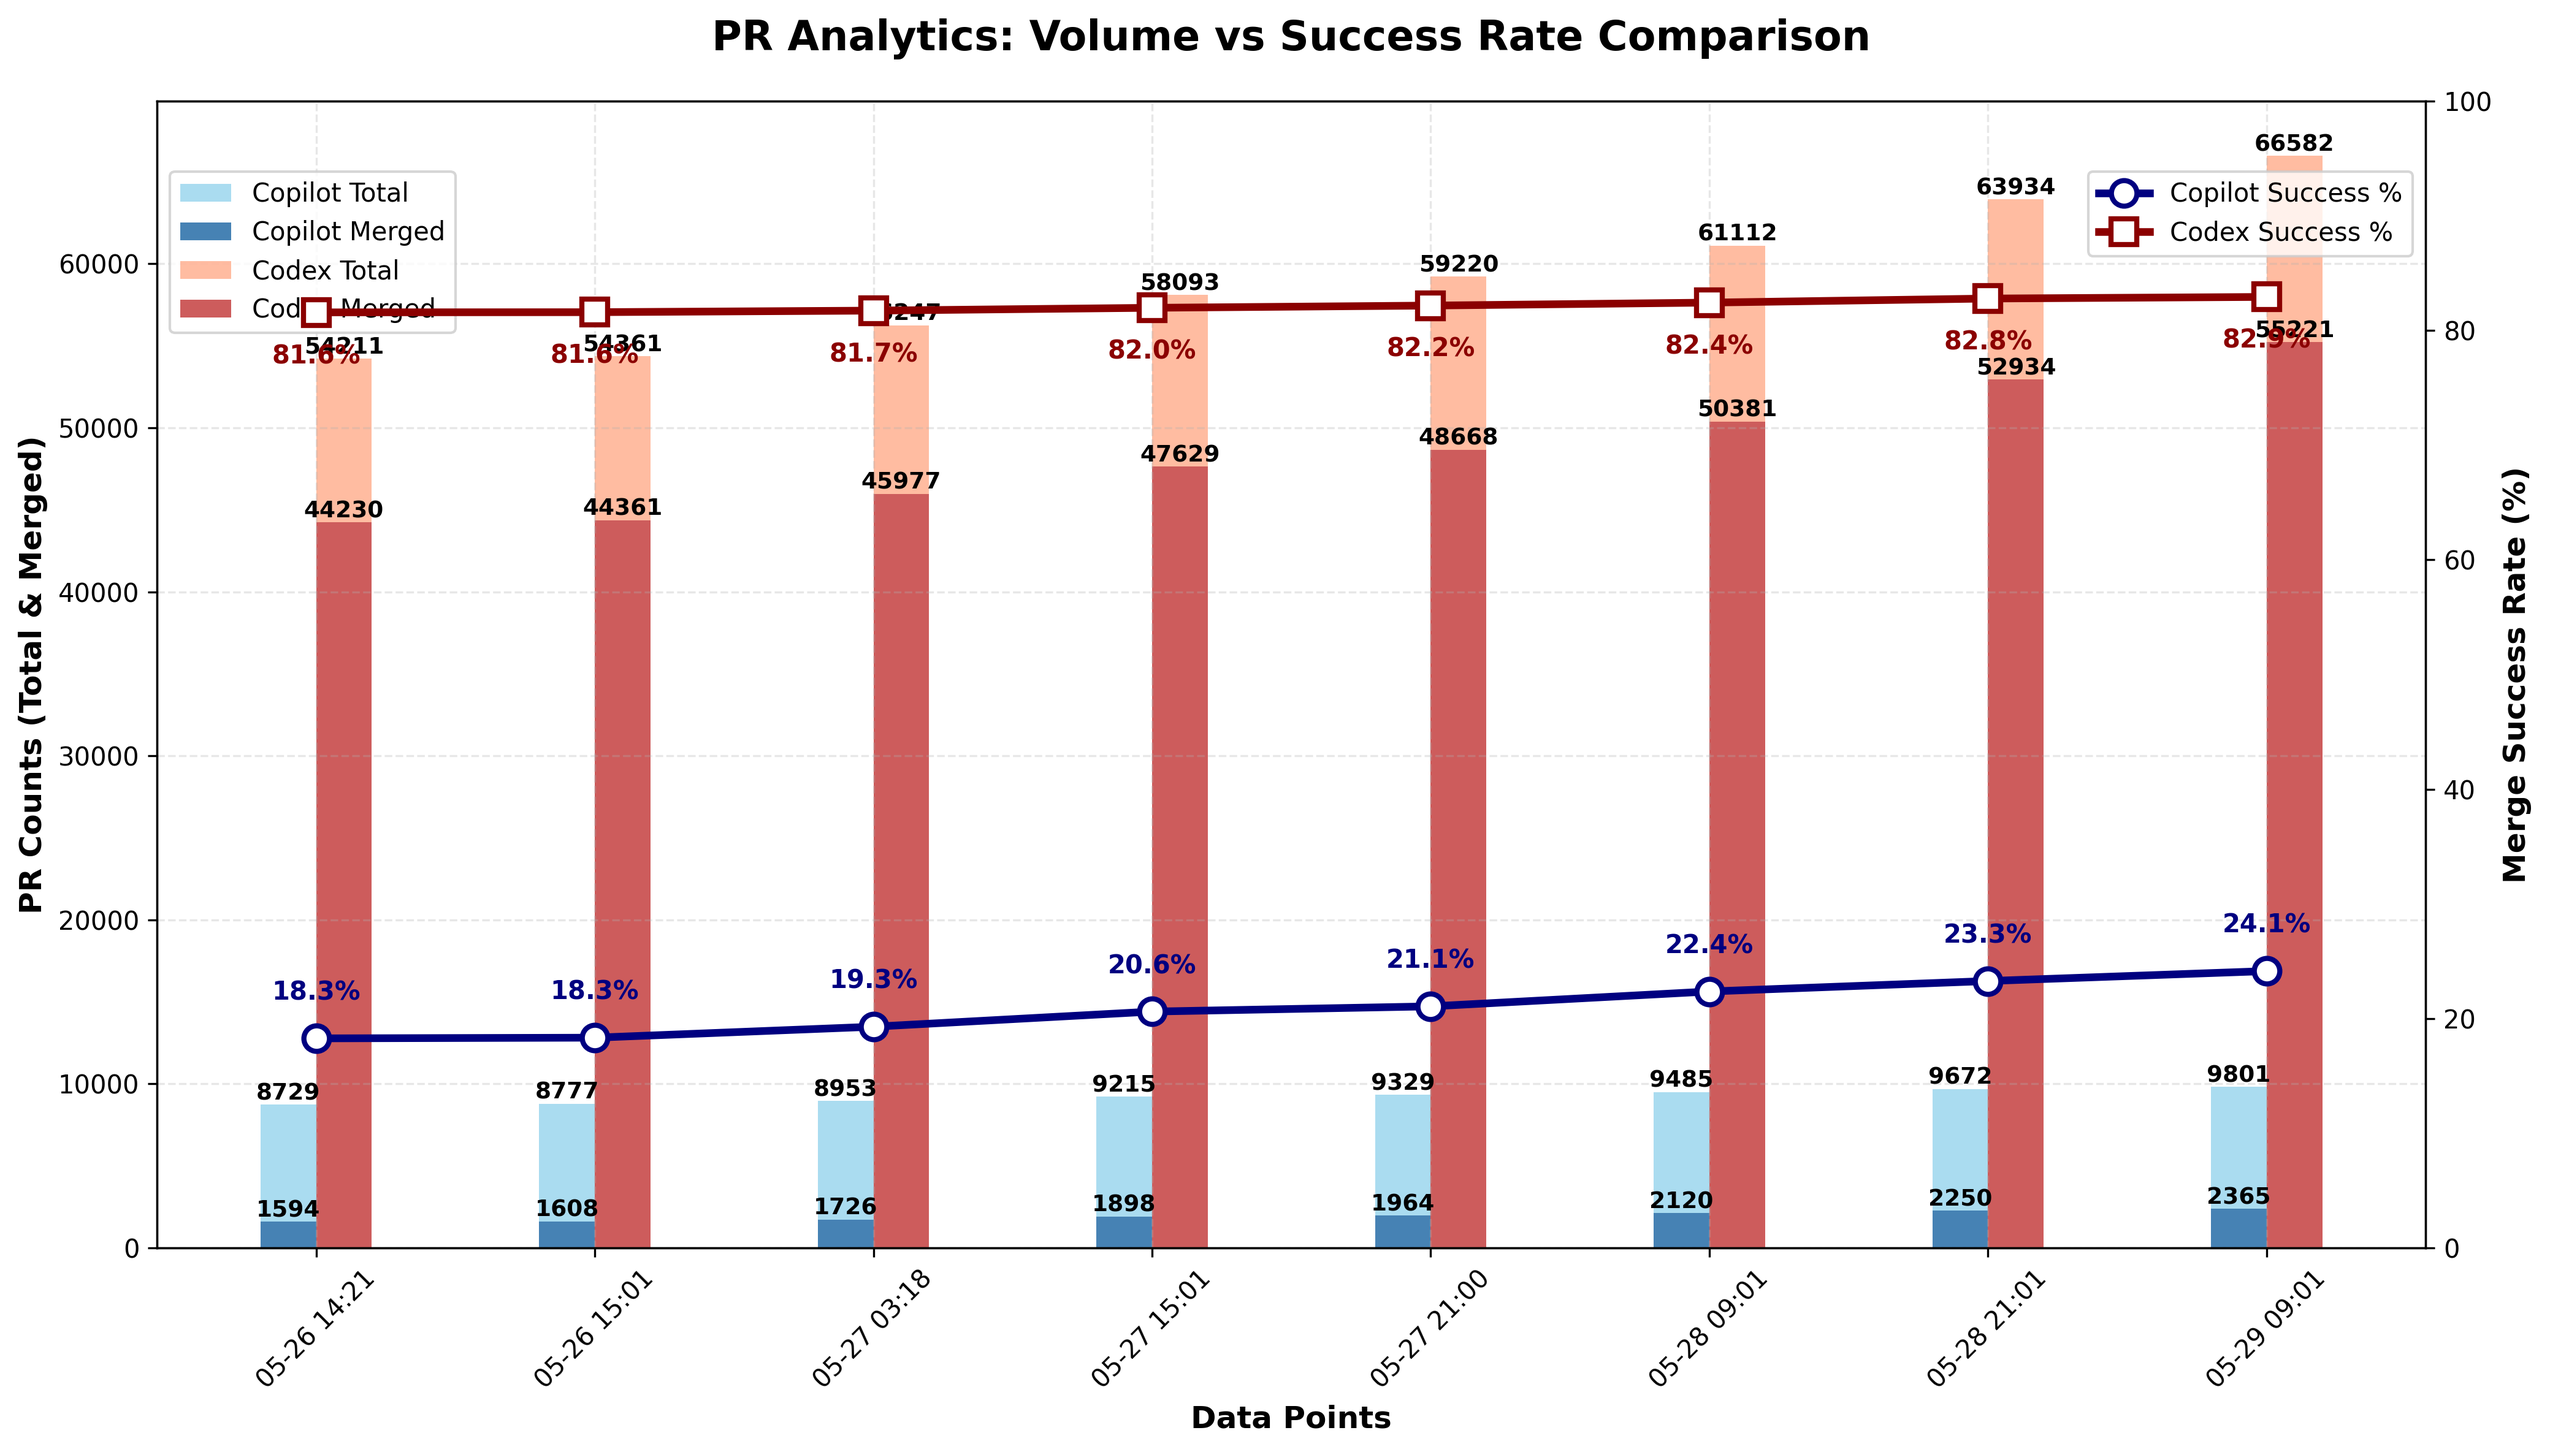
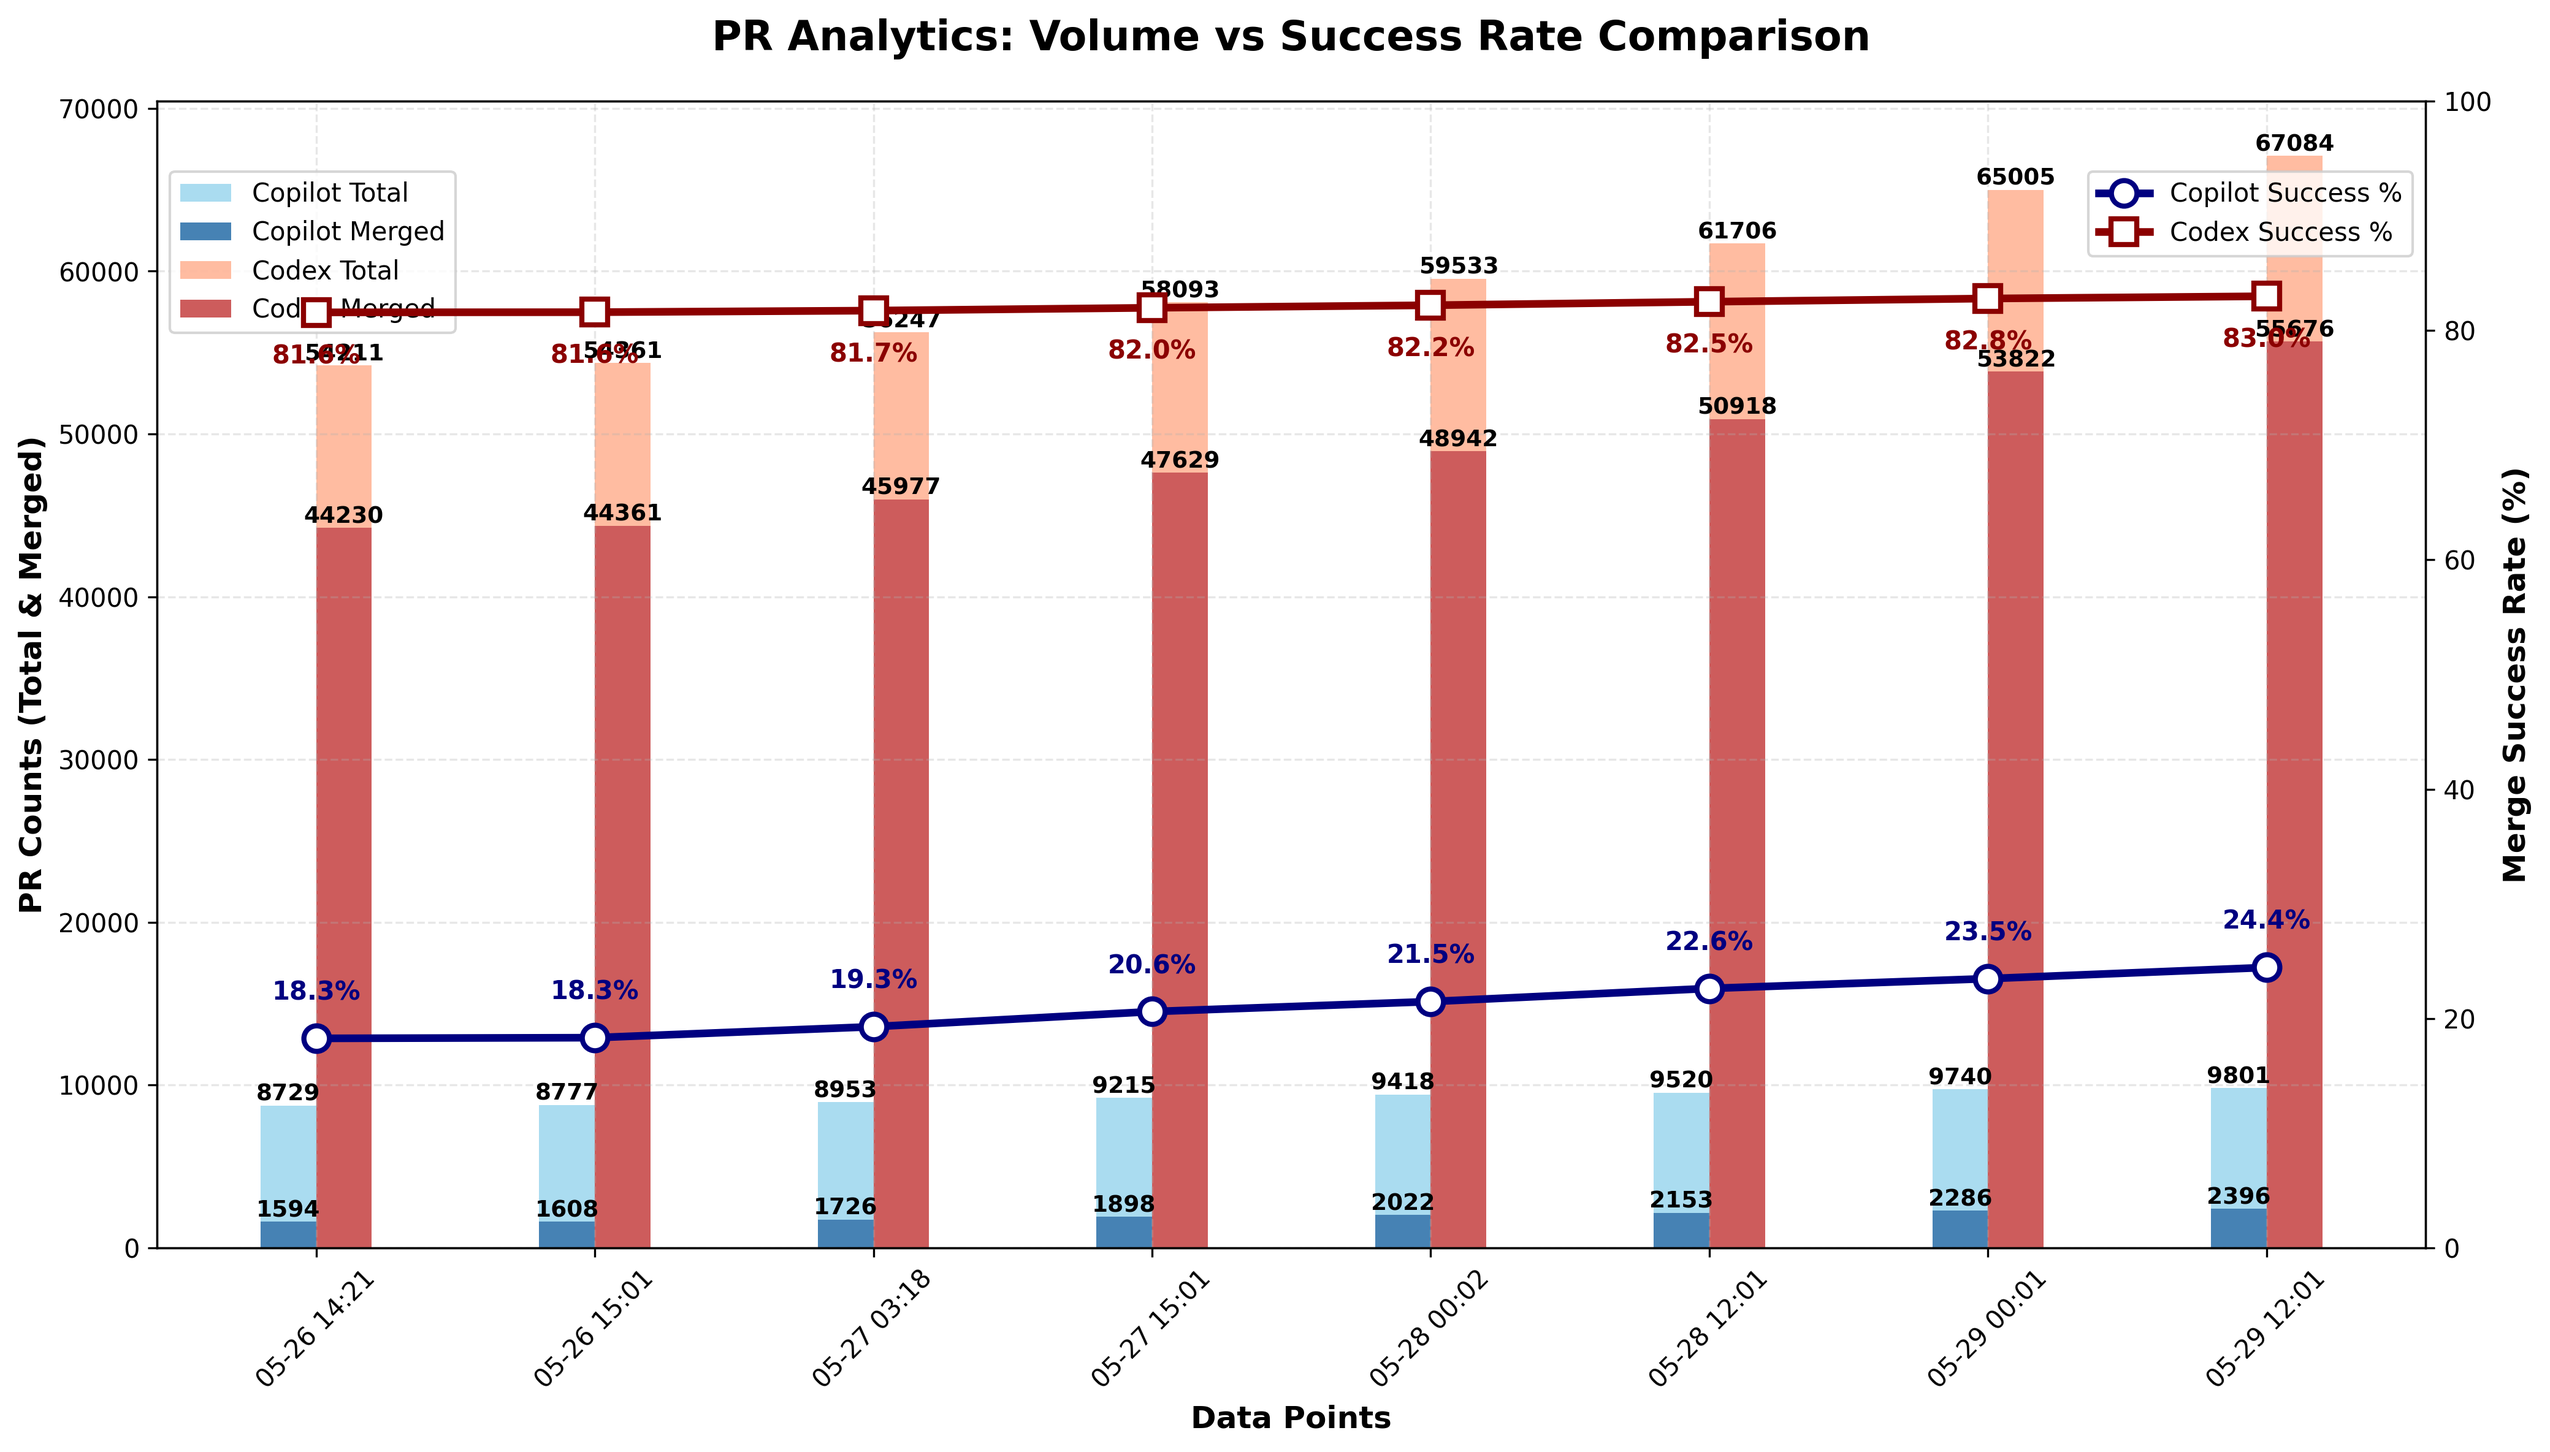
chore: update PR‑approval chart

diff --git a/docs/index.html b/docs/index.html
@@ -45,21 +45,21 @@
                     <tr>
                         <td>Copilot</td>
                         <td>9,801</td>
-                        <td>2,365</td>
-                        <td>24.13%</td>
+                        <td>2,396</td>
+                        <td>24.45%</td>
                     </tr>
                     <tr>
                         <td>Codex</td>
-                        <td>66,582</td>
-                        <td>55,221</td>
-                        <td>82.94%</td>
+                        <td>67,084</td>
+                        <td>55,676</td>
+                        <td>82.99%</td>
                     </tr>
                 </tbody>
             </table>
         </section>
 
         <footer>
-            <p>Last updated: <span id="last-updated">May 29, 2025 09:01 UTC</span></p>
+            <p>Last updated: <span id="last-updated">May 29, 2025 12:01 UTC</span></p>
             <p><a href="https://github.com/aavetis/ai-pr-watcher">View on GitHub</a></p>
         </footer>
     </div>

diff --git a/README.md b/README.md
@@ -19,5 +19,5 @@ Explore the GitHub search queries used:
 
 | Project | Total PRs | Merged PRs | Merge Rate |
 | ------- | --------- | ---------- | ---------- |
-| Copilot | 9,801 | 2,365 | 24.13% |
-| Codex   | 66,582 | 55,221 | 82.94% |
+| Copilot | 9,801 | 2,396 | 24.45% |
+| Codex   | 67,084 | 55,676 | 82.99% |
